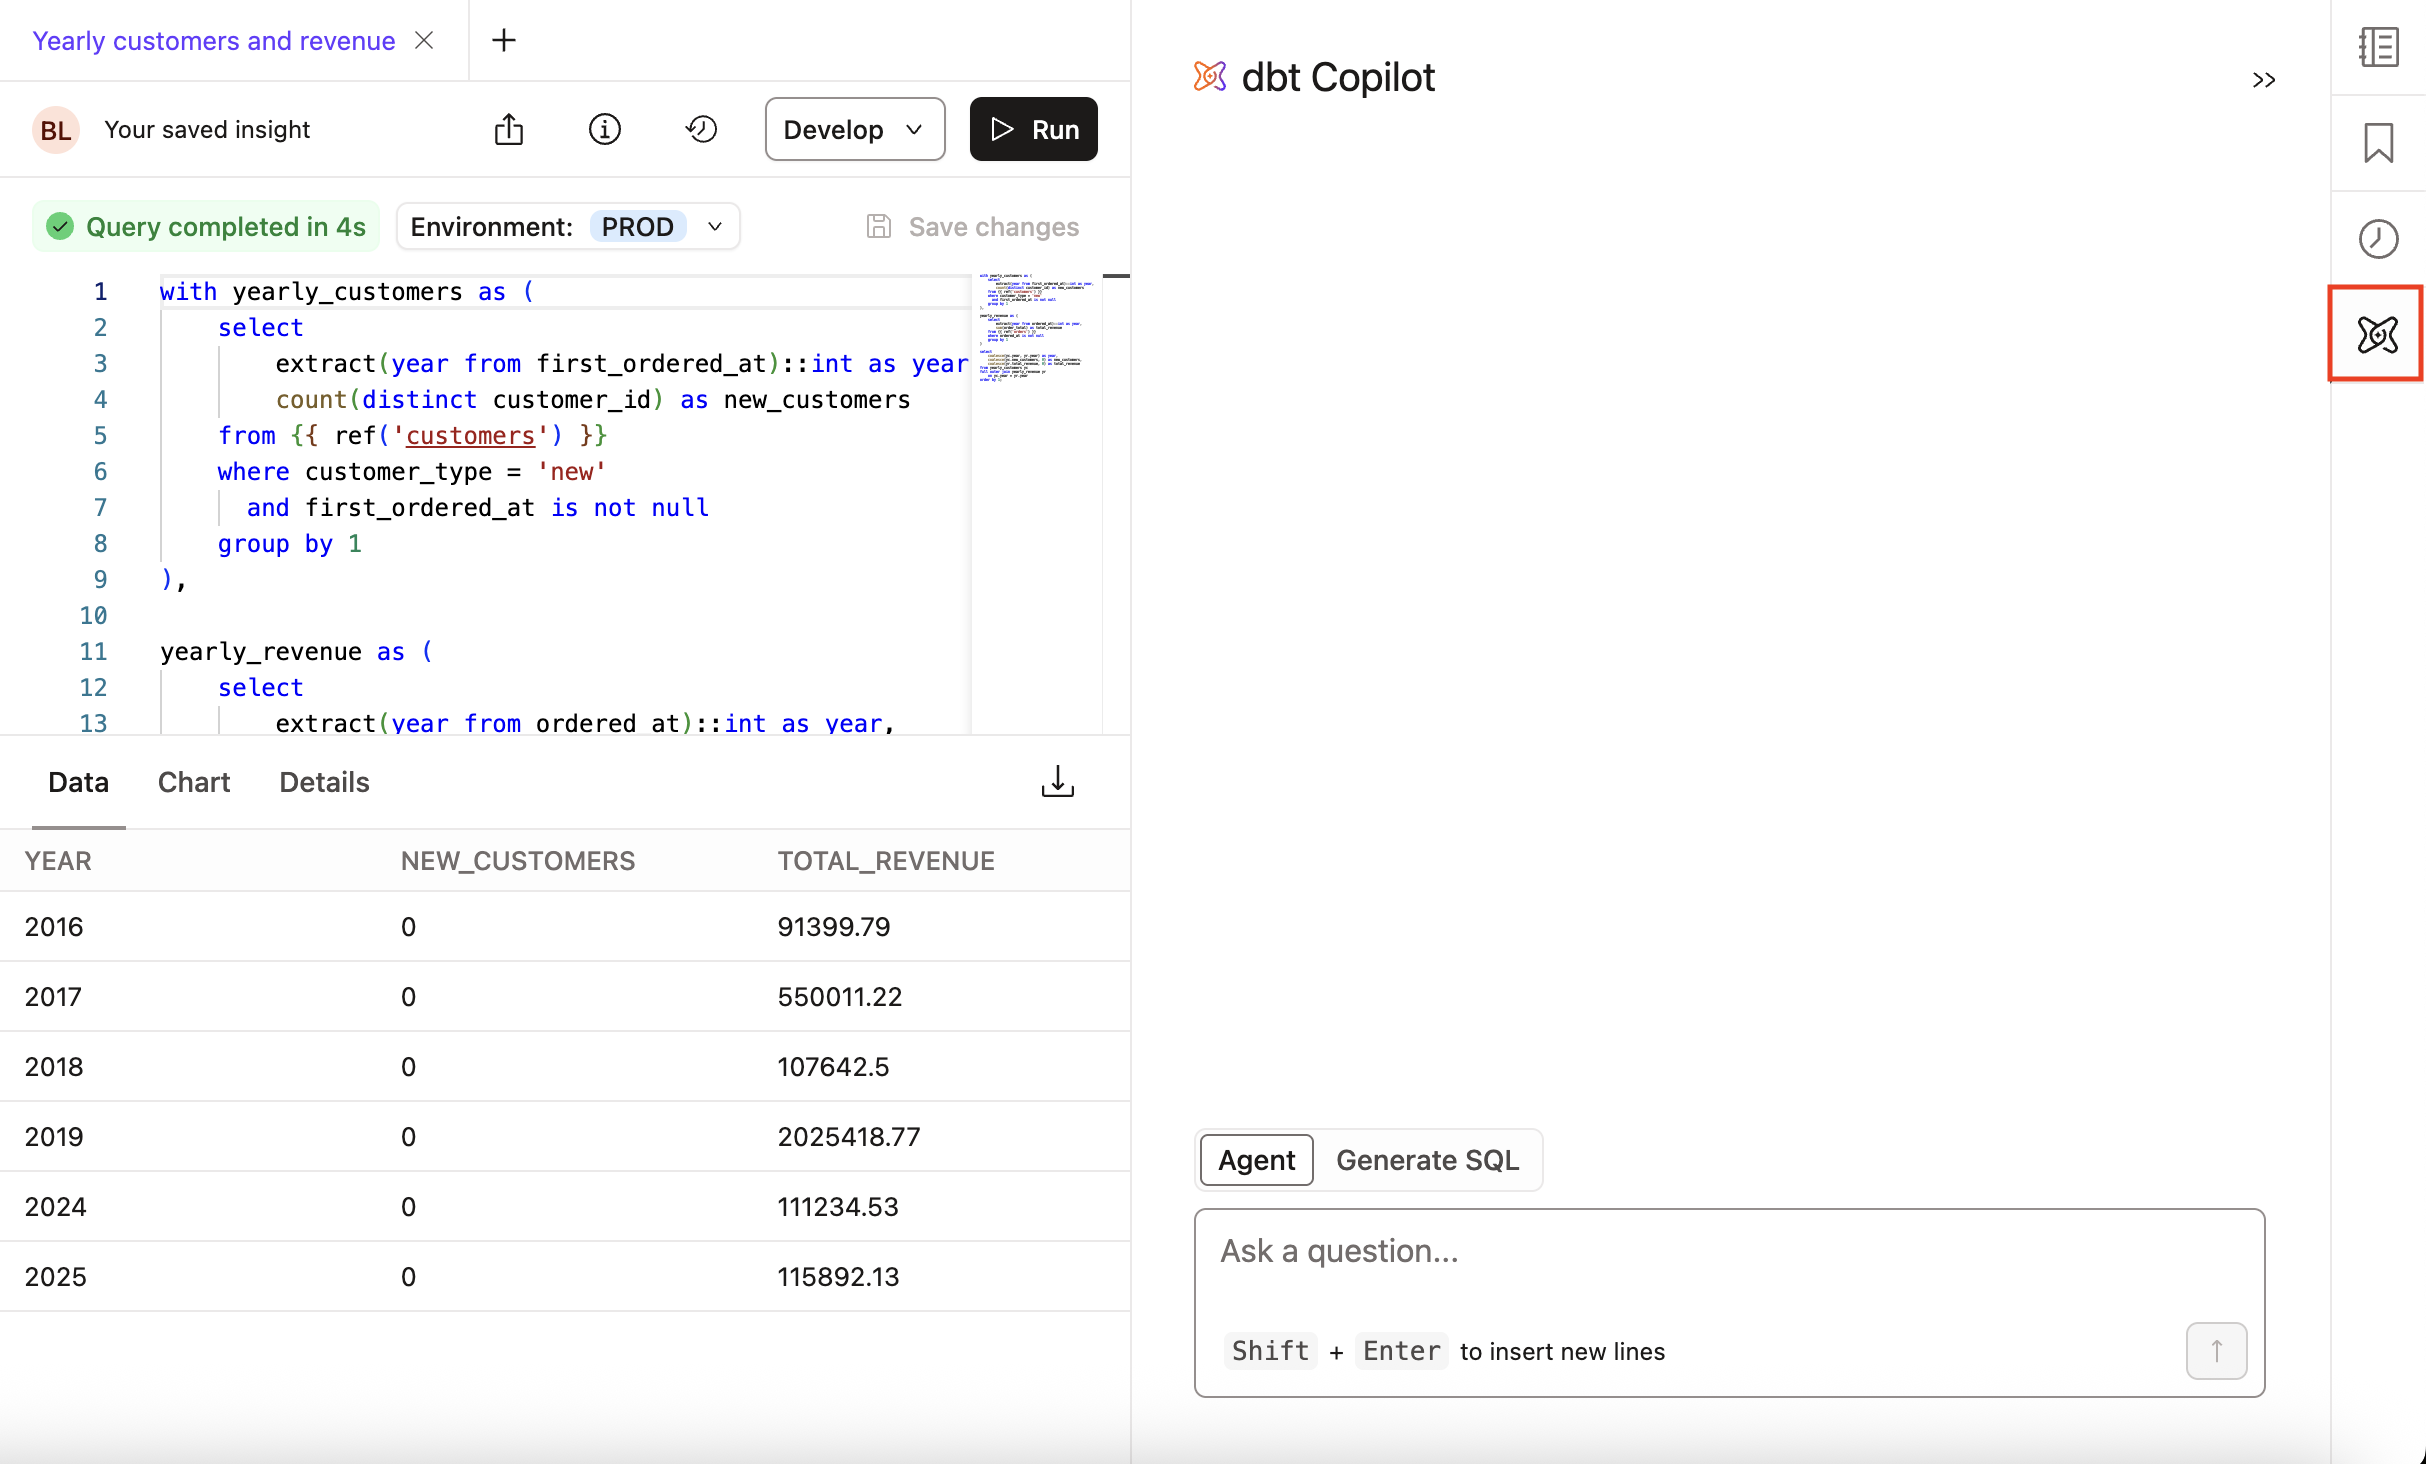
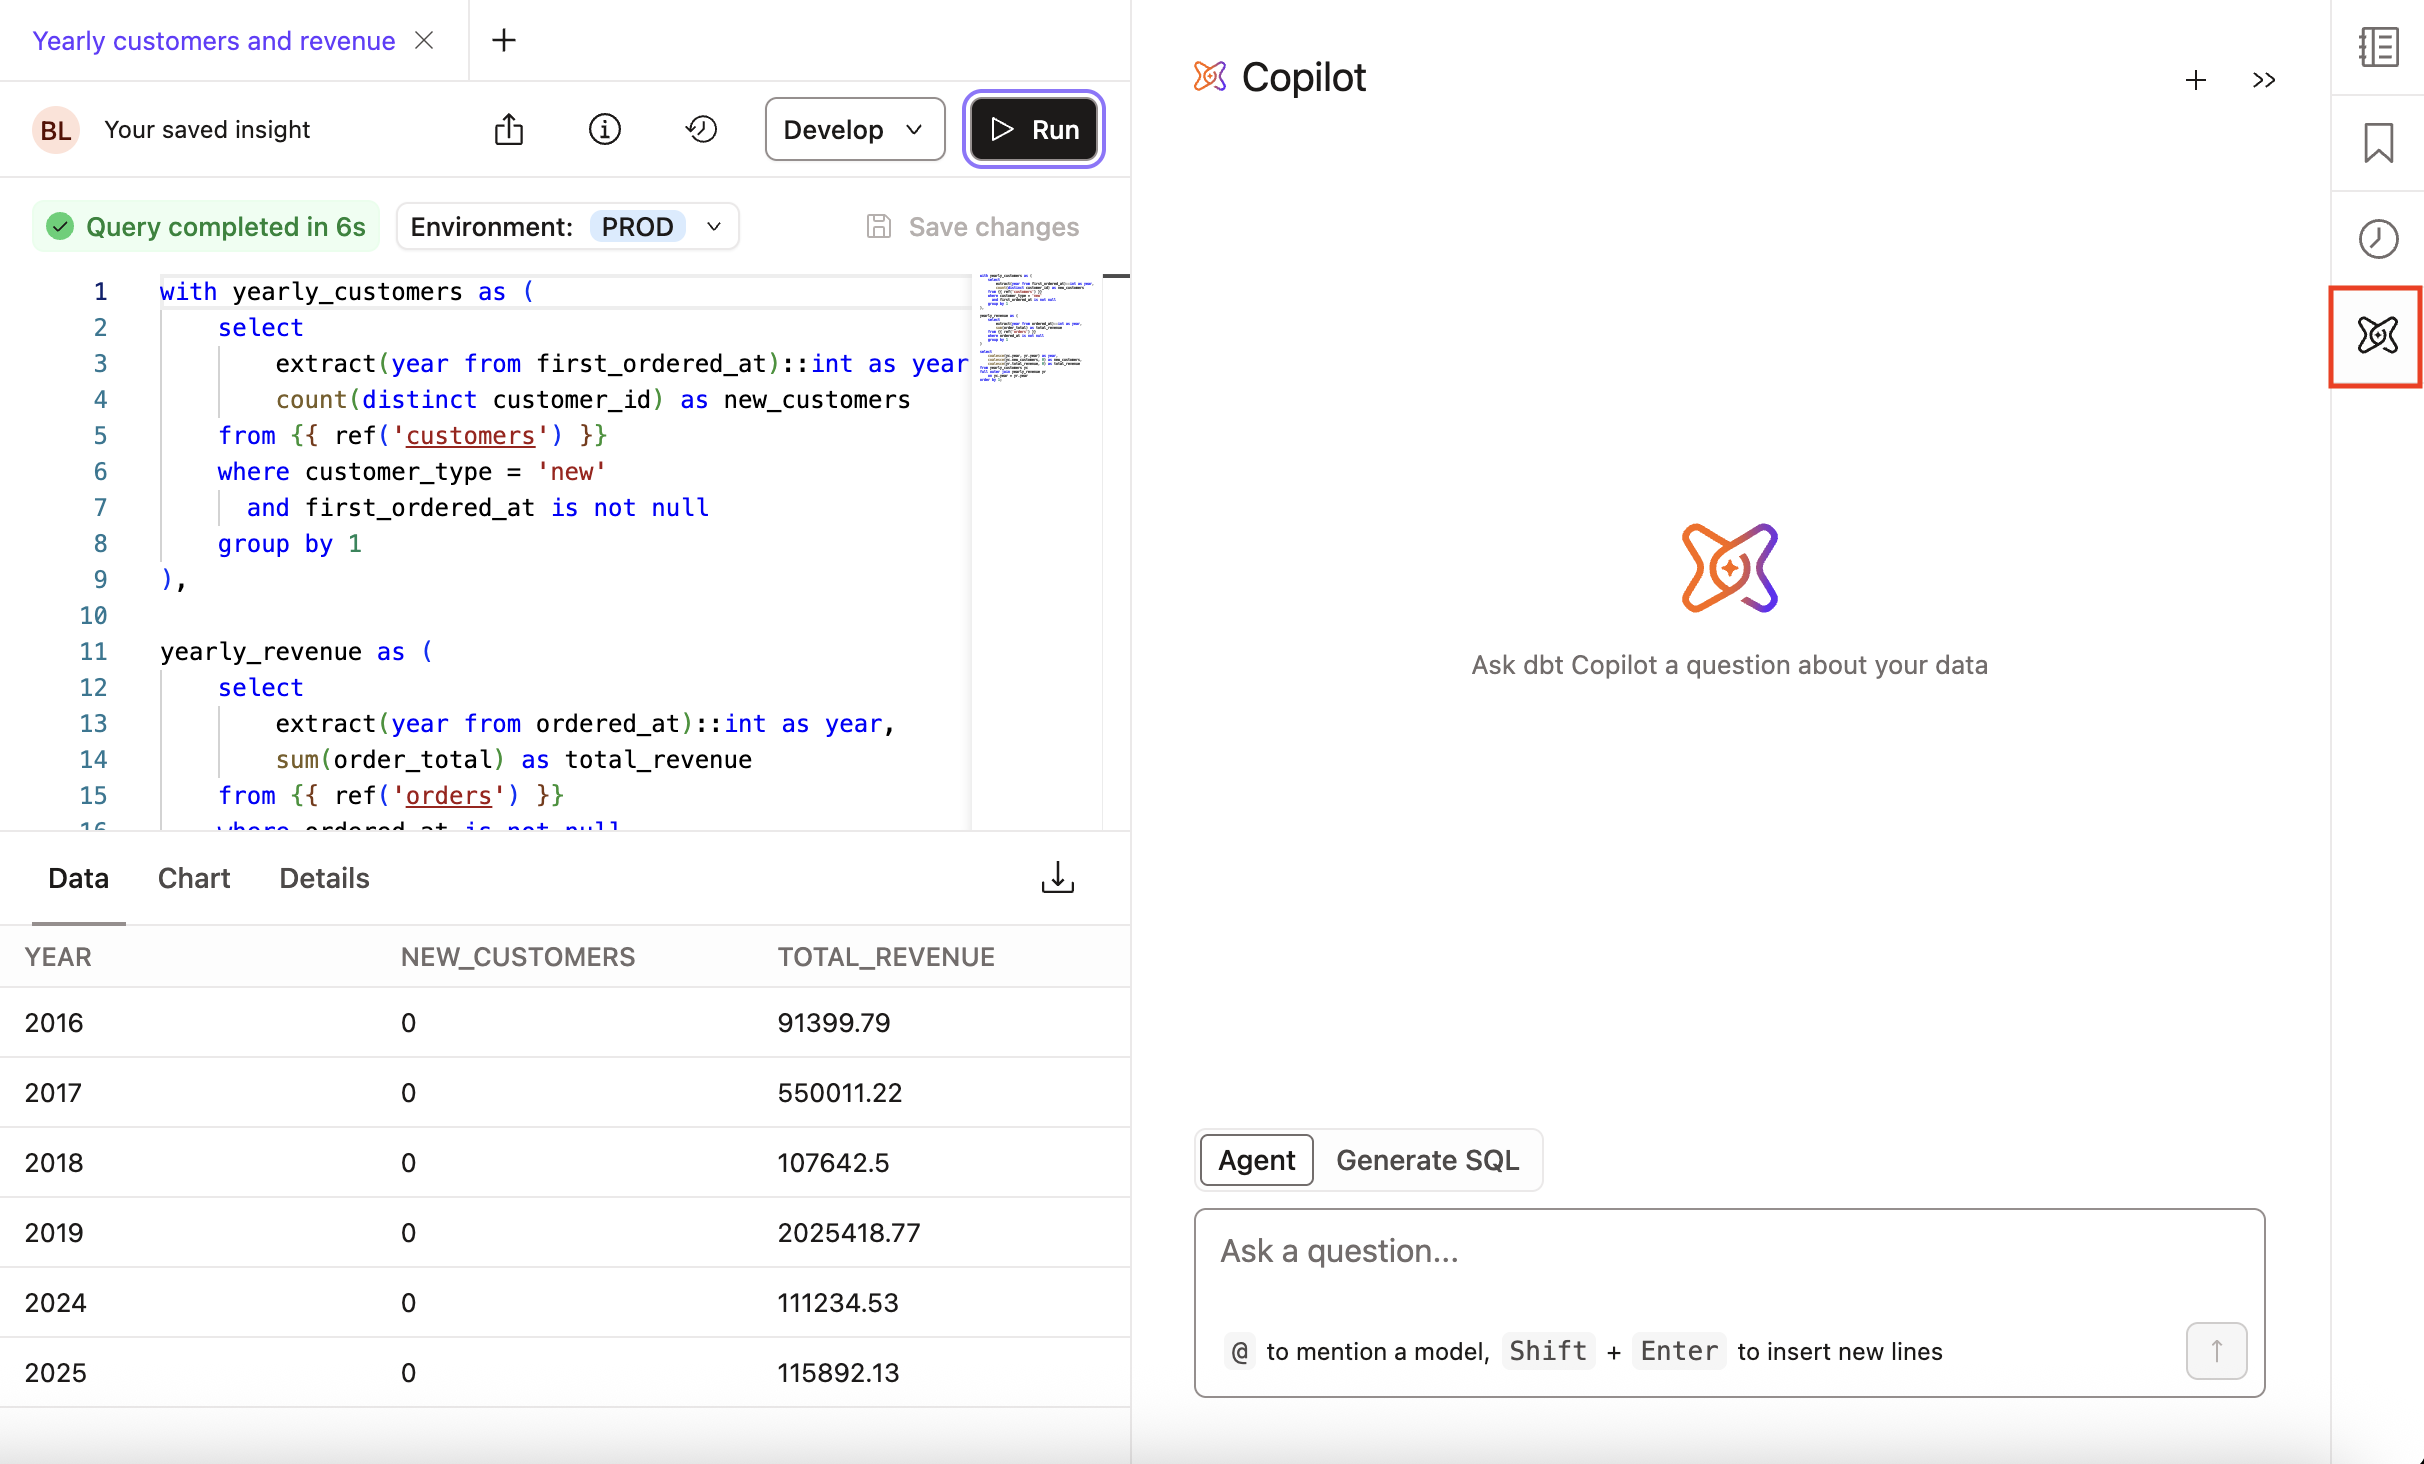
Replace screenshot and doc edits

diff --git a/website/docs/docs/explore/navigate-dbt-insights.md b/website/docs/docs/explore/navigate-dbt-insights.md
@@ -81,7 +81,9 @@ View past queries, their statuses (All, Success, Error, or Pending), start time,
 
 Use [dbt <Constant name="copilot" />'s AI assistant](/docs/cloud/dbt-copilot) to modify or generate queries using natural language prompts or to chat with the <Constant name="copilot" /> agent to gather insights about your data. There are two ways you can use dbt <Constant name="copilot" /> in <Constant name="explorer" /> to interact with your data:
 
-- **Agent**<Lifecycle status='beta' /> - Ask questions to the dbt <Constant name="copilot" /> agent to get intelligent data analysis with automated workflows, governed insights, and actionable recommendations. This is a conversational AI feature where you can ask natural language prompts and receive analysis in real-time. Some sample questions: 
+<Lightbox src="/img/docs/dbt-insights/insights-copilot-tabs.png" width="90%" title="dbt Copilot in Insights" />
+
+- **Agent** tab<Lifecycle status='private_beta' /> - Ask questions to the dbt <Constant name="copilot" /> agent to get intelligent data analysis with automated workflows, governed insights, and actionable recommendations. This is a conversational AI feature where you can ask natural language prompts and receive analysis in real-time. Some sample questions: 
 
   - _What region are my sales growing the fastest?_ 
   - _What was the revenue last month?_
@@ -98,9 +100,7 @@ Use [dbt <Constant name="copilot" />'s AI assistant](/docs/cloud/dbt-copilot) to
 
   The <Constant name="copilot" /> agent can loop through these steps multiple times if it hasn't reached a complete answer, allowing for complex, multi-step analysis.
 
-  For more information, see [Analyze data with the dbt <Constant name="copilot" /> agent](/docs/cloud/use-dbt-copilot#analyzet-data-with-the-analyst-agent).
+  For more information, see [Analyze data with the dbt <Constant name="copilot" /> agent](/docs/cloud/use-dbt-copilot#analyze-data-with-the-copilot-agent).
 
-- **Generate SQL** - Build queries in <Constant name="query_page" /> with natural language prompts to explore and query data with an intuitive, context-rich interface. For more information, see [Build queries](/docs/cloud/use-dbt-copilot#build-queries).
+- **Generate SQL** tab - Build queries in <Constant name="query_page" /> with natural language prompts to explore and query data with an intuitive, context-rich interface. For more information, see [Build queries](/docs/cloud/use-dbt-copilot#build-queries).
 
-
-<Lightbox src="/img/docs/dbt-insights/insights-copilot-tabs.png" width="90%" title="dbt Copilot in Insights" />

diff --git a/website/docs/docs/cloud/use-dbt-copilot.md b/website/docs/docs/cloud/use-dbt-copilot.md
@@ -55,7 +55,7 @@ To begin building SQL queries with natural language prompts in <Constant name="q
 
 <Lightbox src="/img/docs/dbt-insights/insights-copilot.gif" width="95%" title="dbt Copilot in dbt Insights" />
 
-## Analyze data with the Copilot agent <Lifecycle status='beta' />
+## Analyze data with the Copilot agent <Lifecycle status='private_beta' />
 
 Use dbt <Constant name="copilot" /> to analyze your data and get contextualized results in real time by asking natural language questions to the [<Constant name="query_page" />](/docs/explore/dbt-insights) <Constant name="copilot" /> agent. Before you begin, make sure you can [access <Constant name="query_page" />](/docs/explore/access-dbt-insights).
 
